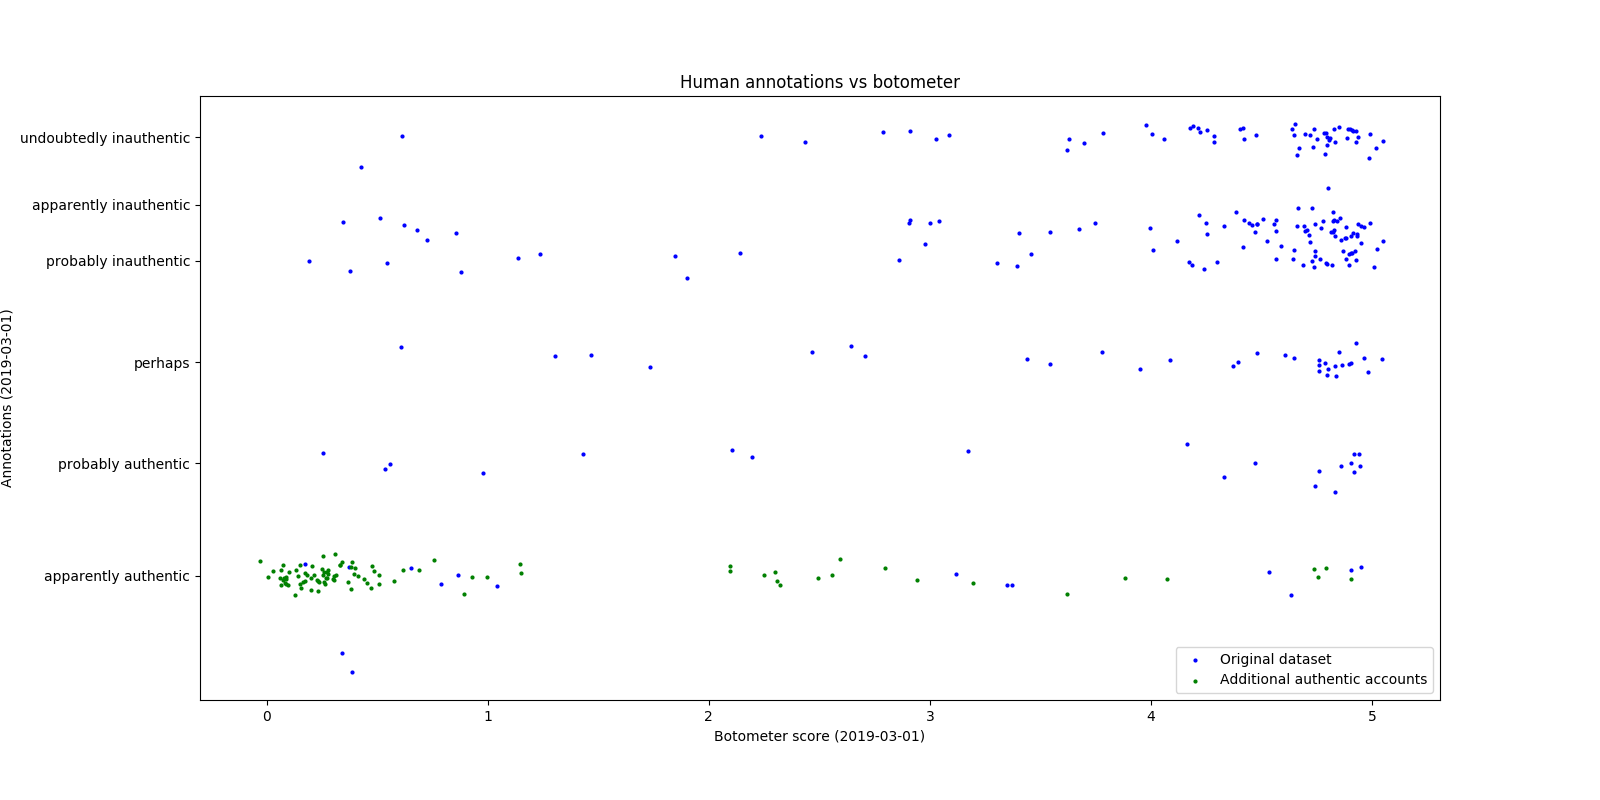
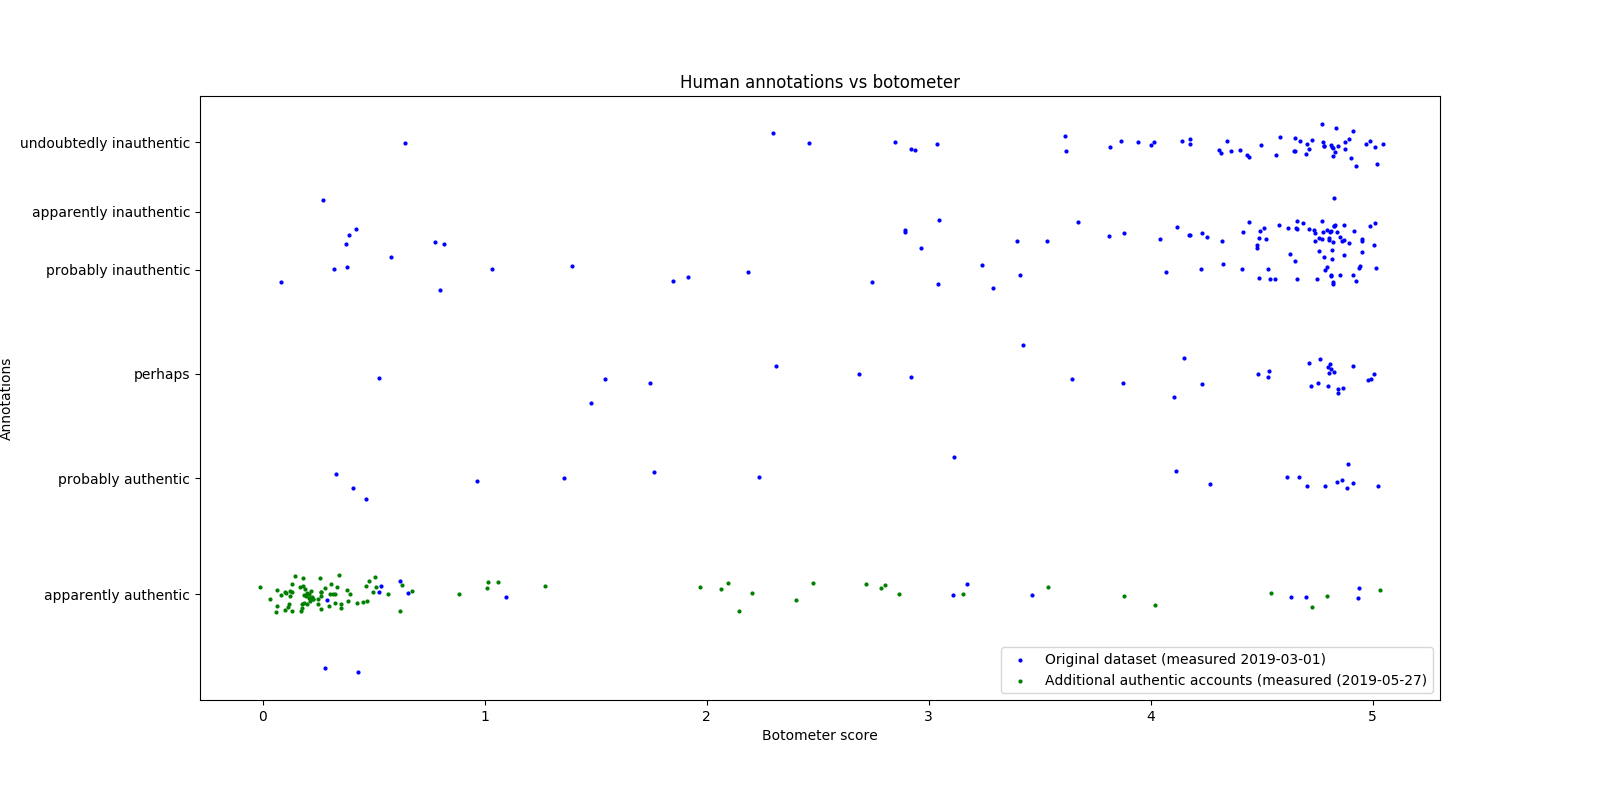
Botometer assessment

diff --git a/_pages/en/encyclopedia/3-qualification/3-tools.md b/_pages/en/encyclopedia/3-qualification/3-tools.md
@@ -89,26 +89,24 @@ Manual classification        | Estimated Botometer score range
 undoubtedly inauthentic      | 4.2–5.0 score
 apparently inauthentic       | 3.8–4.2 score
 probably inauthentic         | 3.2–3.8 score
-perhaps                      | 2.0–3.2 score
+perhaps *                    | 2.0–3.2 score
 probably authentic           | 1.4–2.0 score
 apparently authentic         | 1.0–1.4 score
 undoubtedly authentic        | 0.0–1.0 score
 
-Botometer scores of the classified accounts were then calculated on May 22nd, 2019.
-
-This original dataset is largely unbalanced in favour of suspicious accounts, so we added a hundred of accounts that we know are authentic (friends and celebrities).
+This original dataset was largely unbalanced in favour of suspicious accounts, so we added a hundred of accounts that we know are authentic (friends and celebrities).
 
 ###### Limitations
 
-This time difference in computation is a human error and problematic, as some accounts were not available anymore and differences in assessment can also be induced by the time gap (a seemingly inauthentic account in February might become more human-like two months later, and the other way around). In order to mitigate this issue, we provided the Botometer API with timelines and mentions as close as possible to their value on March 1st, 2019. In particular, we discarded tweets newer than March 1st, 2019.
+Botometer scores of the classified accounts were then calculated on May 22nd, 2019. This time difference in computation is a human error and problematic, as some accounts were not available anymore and differences in assessment can also be induced by the time gap (a seemingly inauthentic account in February might become more human-like two months later, and the other way around). In order to mitigate this issue, we provided the Botometer API with timelines and mentions as close as possible to their value on March 1st, 2019. In particular, we discarded tweets newer than March 1st, 2019.
 
-This evaluation was made on a dataset that we built to be highly varied, however it cannot capture the diversity of both authentic and inauthetic accounts that can be found in the tweeter community.
+This evaluation was made on a dataset that we built to be highly varied, however it cannot capture the full diversity of both authentic and inauthentic accounts that can be found in the Twitter community.
 
 ###### Results
 
 ![Botometer assessment](/assets/img/botometer-scatterplot.png)
 
-The two main clusters of accounts that were evaluated both as authentic or both as inauthentic by humans and Botometer, indicated that Botometer generally makes correct guesses.
+The two main clusters of accounts that were evaluated both as authentic or both as inauthentic by humans and Botometer, indicates that Botometer generally makes guesses similar to humans’, even in a non-English context.
 
 ##### Chatbot wrapper
 
